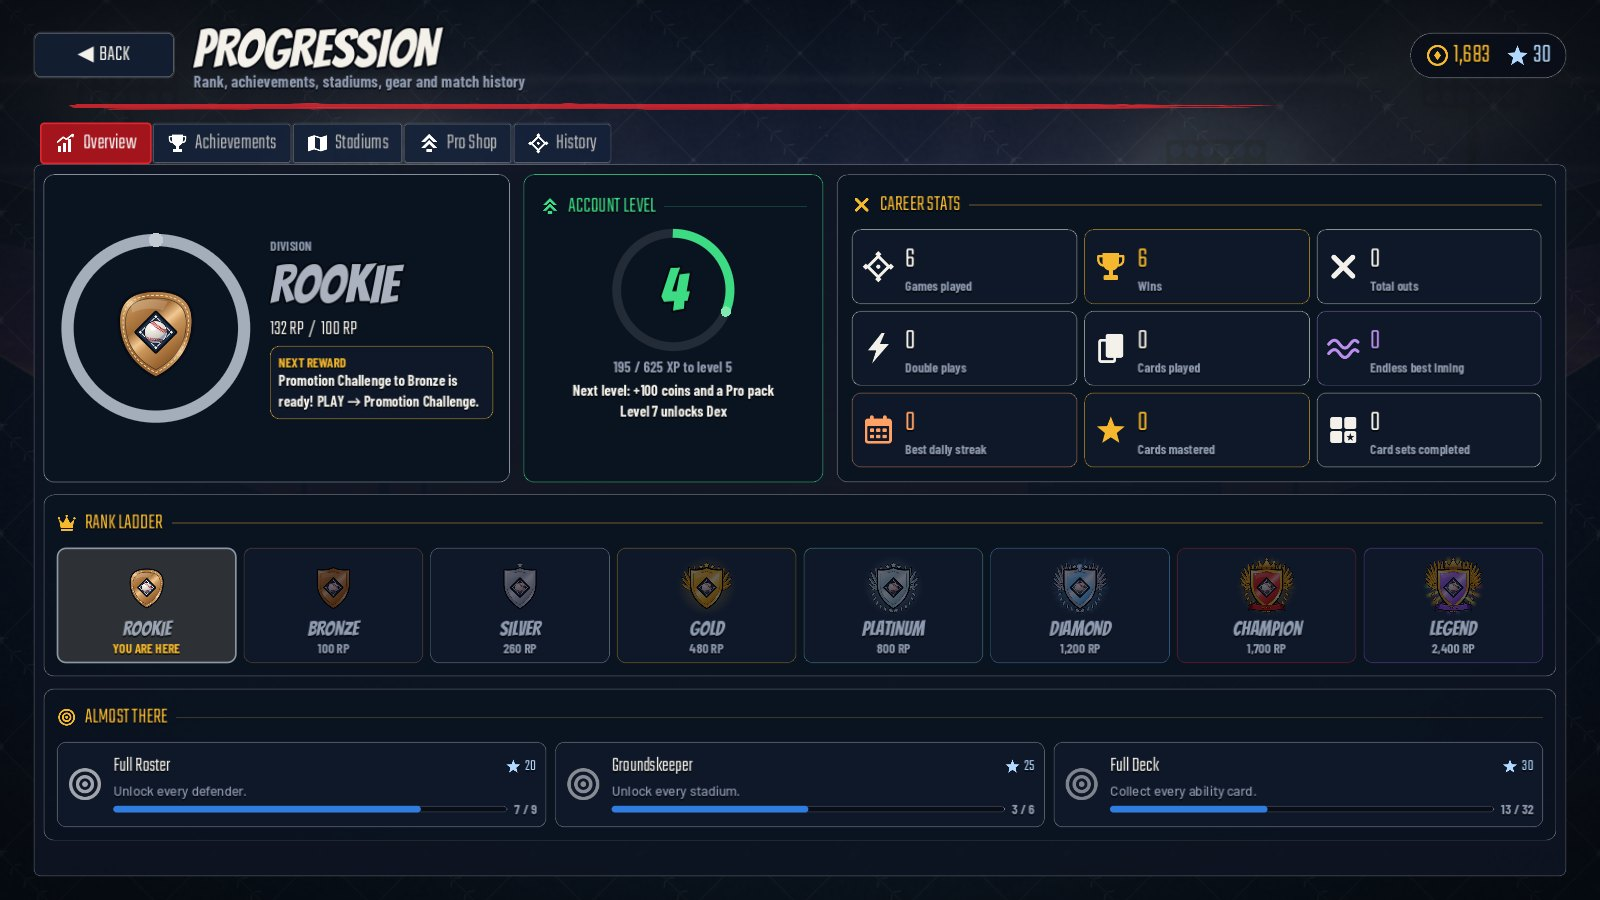
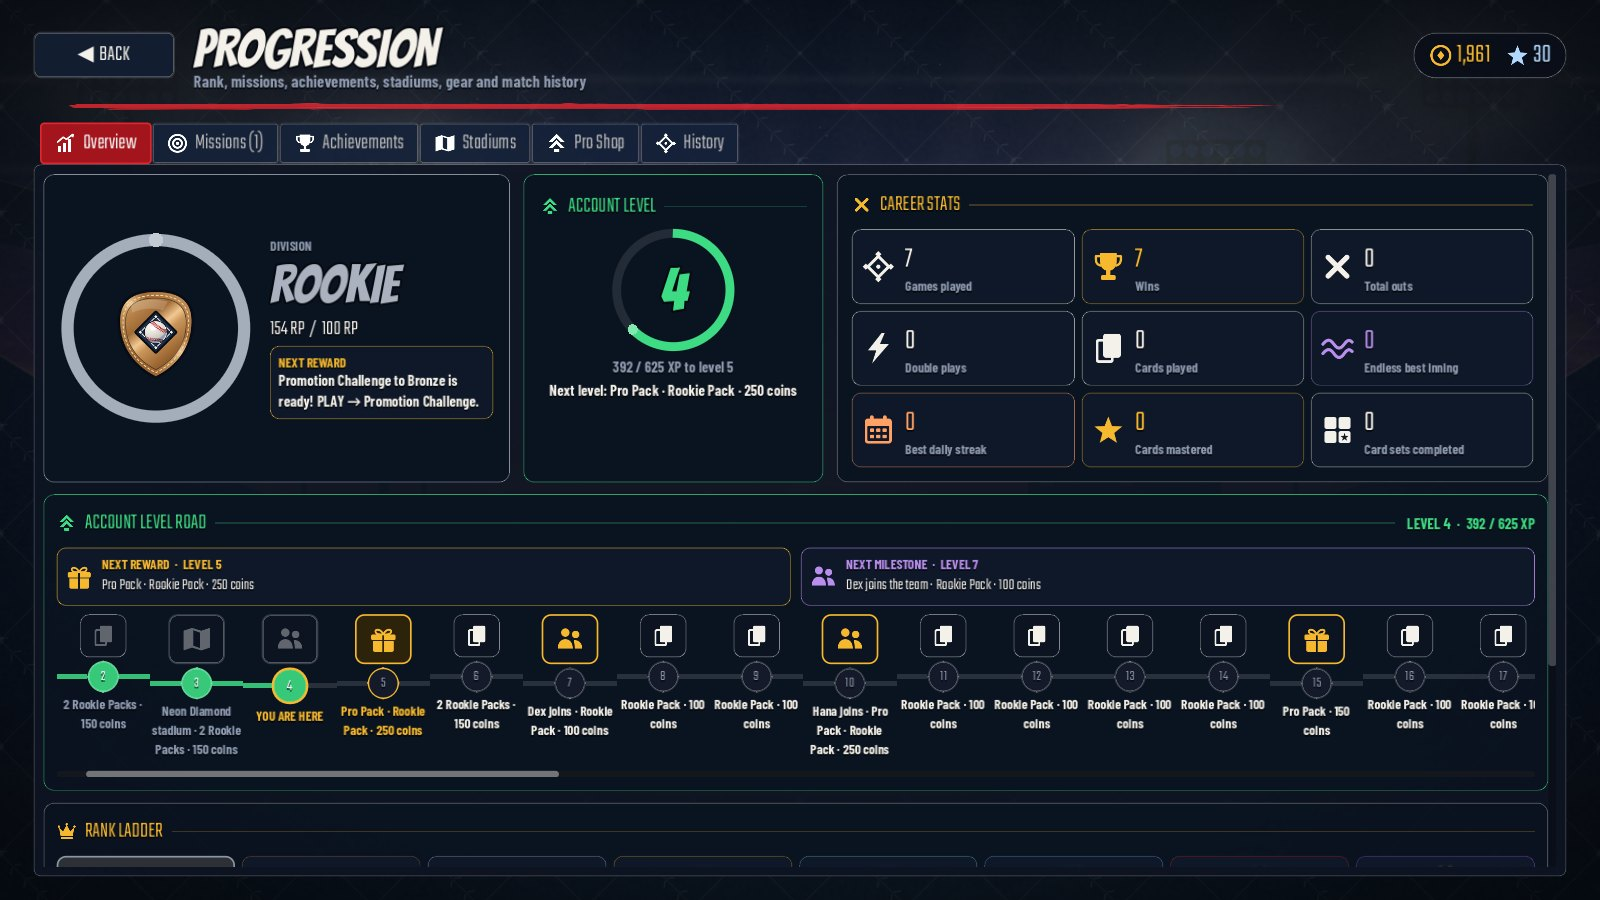
Update 6: screenshots, before/after, report [build]
Claude-Session: https://claude.ai/code/session_0152sgq3BPmEUFHQx2kFxsiy

diff --git a/docs/DEVELOPMENT_REPORT.md b/docs/DEVELOPMENT_REPORT.md
@@ -568,3 +568,18 @@ Plan: `docs/plans/UPDATE_6_PLAN.md`. Scored reviews: `docs/plans/review/runners.
   * the Daily
   * try new cards
 * **Disabled buttons:** they say why, and Team links straight to the Pro Shop.
+
+**Verification**
+* Script check: 82 scripts, 0 failed.
+* System suite: 1,431 checks, 0 failed.
+* Full UI flow test: 172 checks, 0 failed. It adds the missions and navigation sections.
+* Card hit map: 0 of 175 dead points; 12 of 12 fast clicks cast.
+* Before/after comparison: `docs/screenshots/update6_before_after.jpg`.
+
+**Known limitations**
+* Not finished from the card review:
+  * Line Drive: nothing lingers after the hit.
+  * Splitter: the split balls are small.
+  * Hot Corner between throws: still mostly its ring.
+* Veteran Standard Siege sits under its 40 % autopilot target.
+* Frame rates are still unmeasured on a real GPU.

diff --git a/README.md b/README.md
@@ -14,7 +14,7 @@ and play ability cards to stop waves of rival runners — and their bosses — f
 | ![Pack reveal](docs/screenshots/packs_reveal.jpg) | ![Grand Slam Barrage](docs/screenshots/vfx_grand_slam_barrage.jpg) |
 | ![Deck builder](docs/screenshots/deck_builder.jpg) | ![Guided first game](docs/screenshots/tutorial.jpg) |
 
-What Update 5 changed: [before/after](docs/screenshots/update5_before_after.jpg). All screenshots are rendered by the game itself (`tools/capture_screenshots.sh`); more in `docs/screenshots/`.
+What changed: [Update 6](docs/screenshots/update6_before_after.jpg), [Update 5](docs/screenshots/update5_before_after.jpg). All screenshots are rendered by the game itself (`tools/capture_screenshots.sh`); more in `docs/screenshots/`.
 
 ## Features
 
